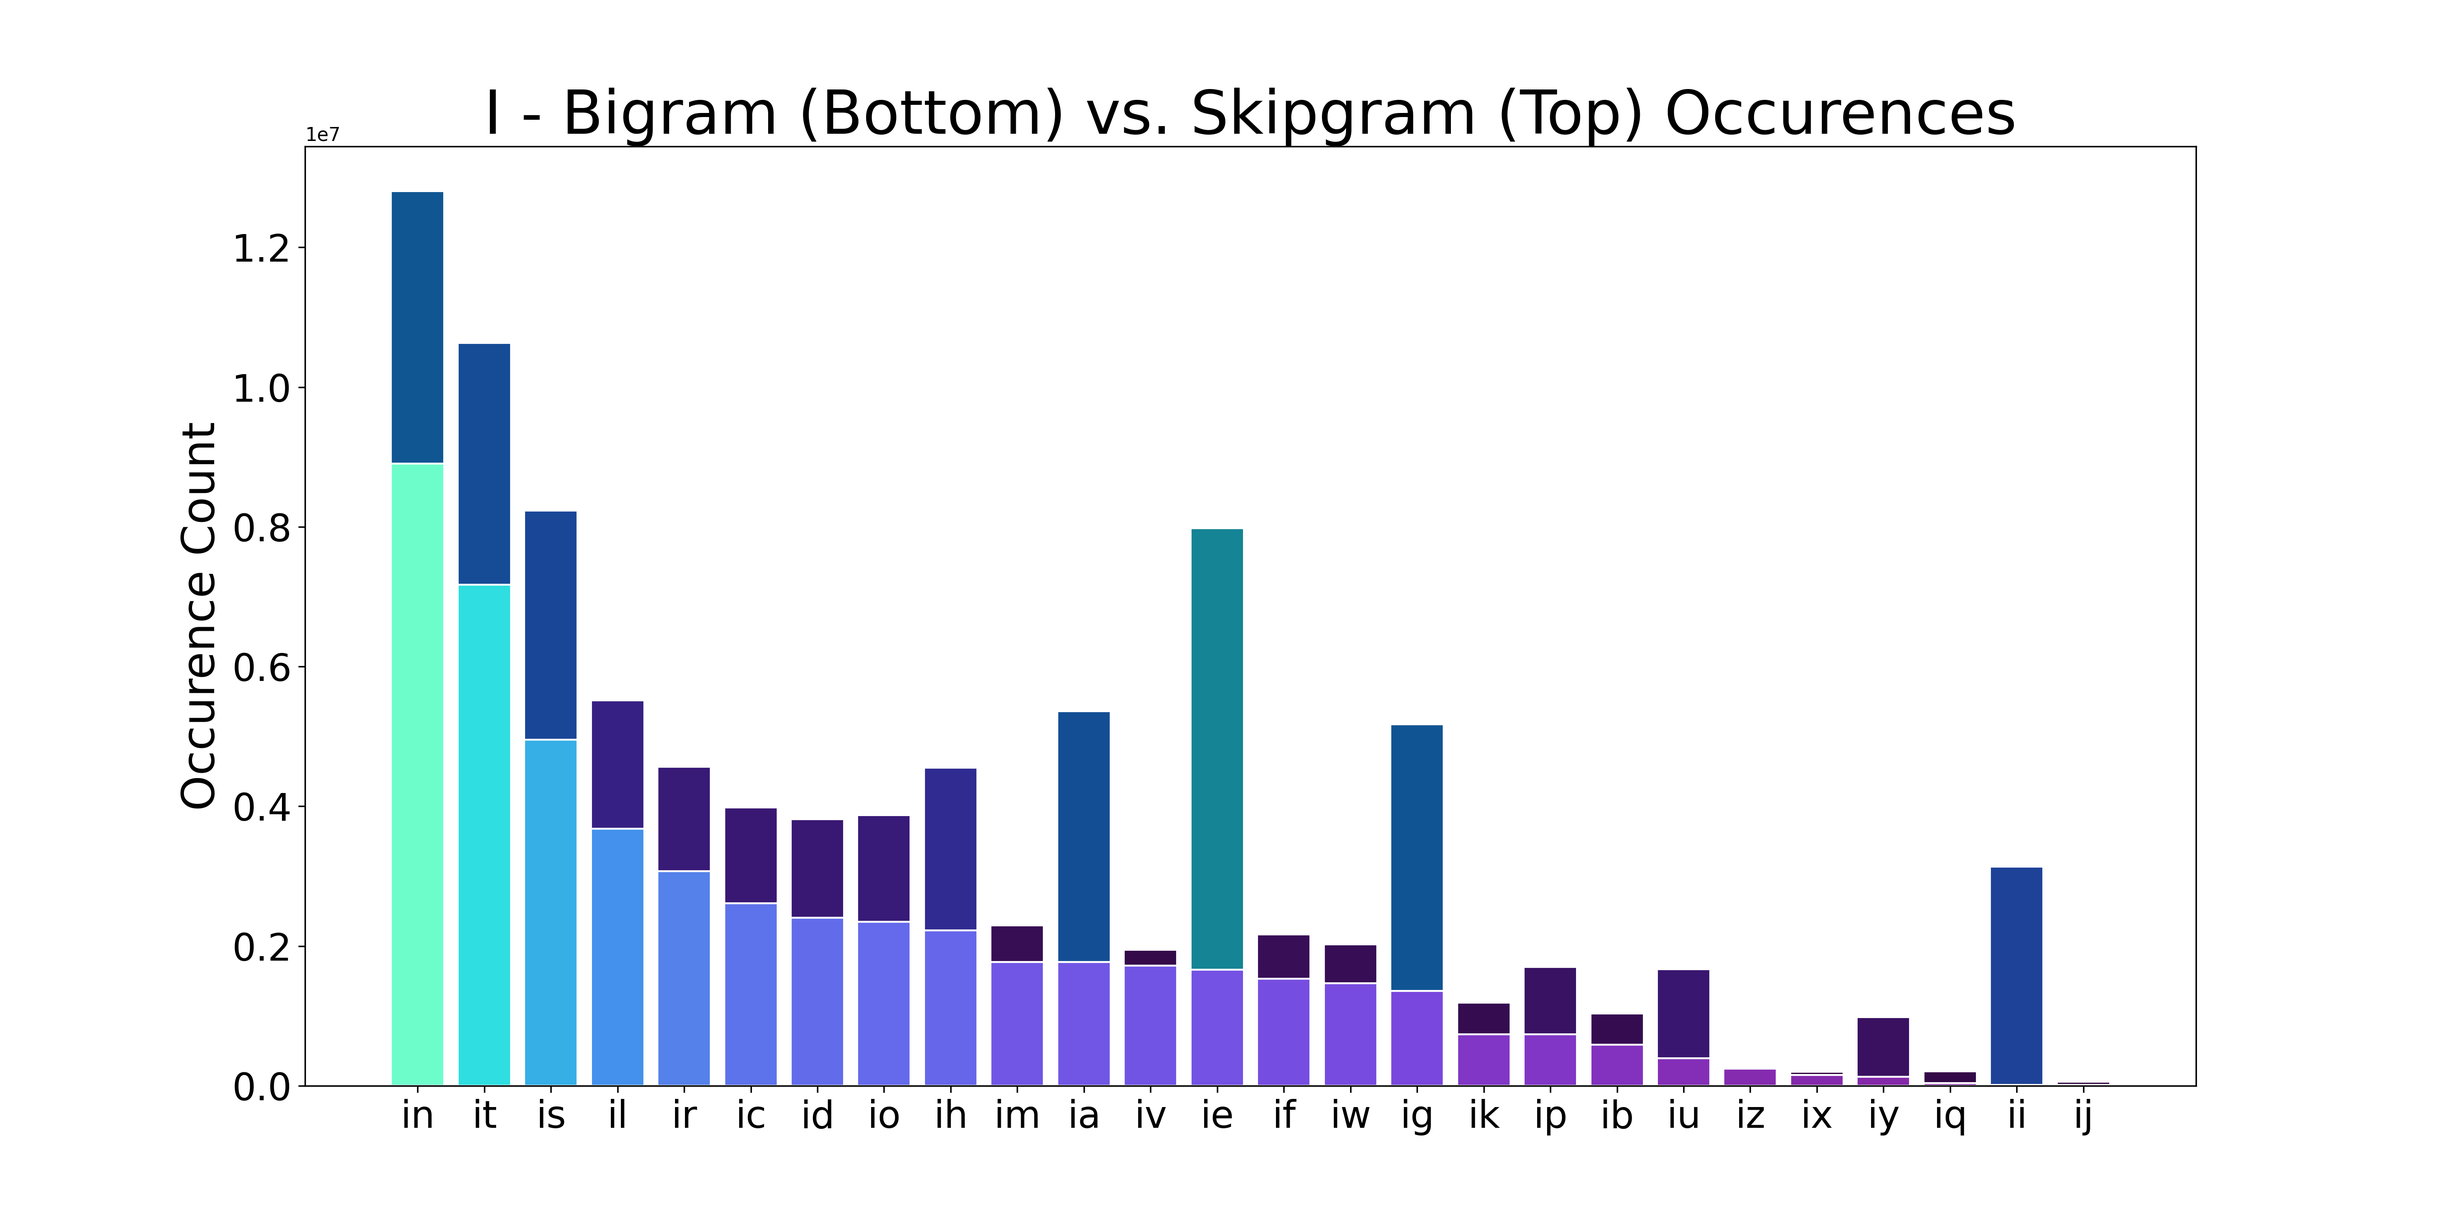
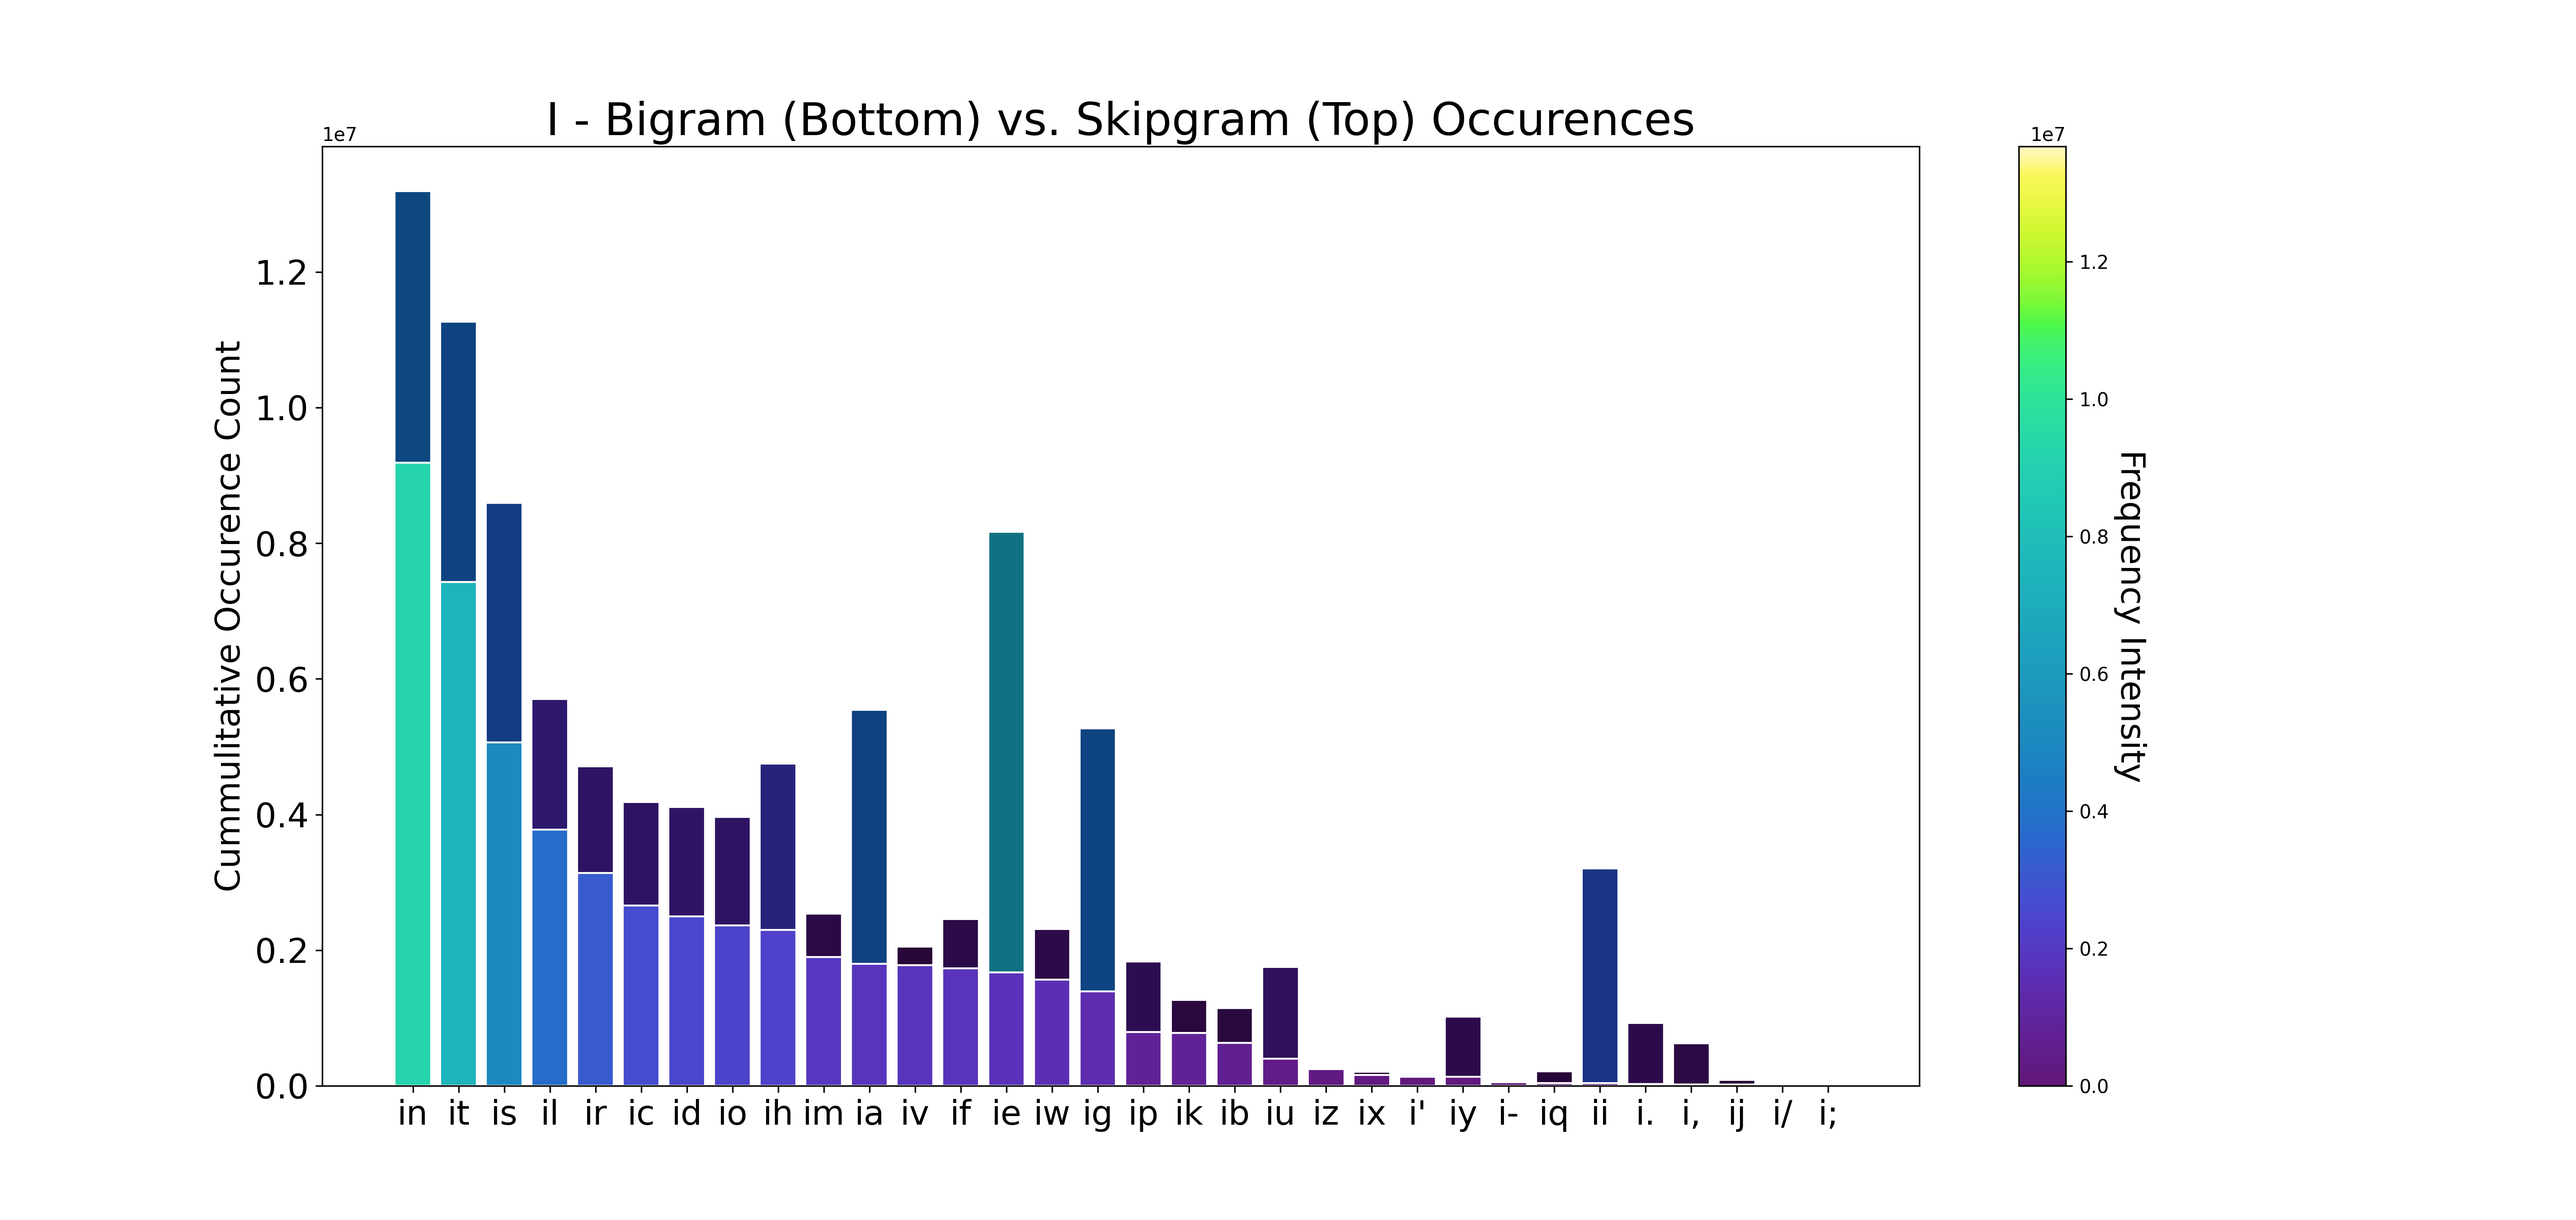
puntuation

diff --git a/Graph_Utils/sfs_sfb_stack_bars.py b/Graph_Utils/sfs_sfb_stack_bars.py
@@ -1,12 +1,14 @@
+from matplotlib.colors import LinearSegmentedColormap
 import matplotlib.pyplot as plt
 from collections import defaultdict
 from conversion import merge, rgb_to_hex, okhsl_to_srgb, oklab_to_linear_srgb, linear_srgb_to_oklab, srgb_to_okhsl
 from math import log10
 
-high_col = srgb_to_okhsl(252, 231, 44)
+high_h, high_s, high_l = srgb_to_okhsl(252, 231, 44)
+high_col = (high_h, high_s, high_l*0.97)
 low_col = srgb_to_okhsl(67, 13, 85)
 
-chars = "etaoinsrhldcumfgpywbvkxjzq"
+chars = "etaoinsrhldcumfgpywbvkxjzq;'-,./"
 
 # get bigram freqs
 bigram_freqs = defaultdict(int)
@@ -14,10 +16,13 @@ bigram_freqs = defaultdict(int)
 with open('bigrams.txt') as f:
     for l in f:
         bigram, freq = l.split('\t')
+        bigram = bigram.lower()
 
-        if bigram.isalpha():
+        if all(c in chars for c in bigram):
             bigram_freqs[bigram] += int(freq)
             bigram_freqs[bigram[1]+bigram[0]] += int(freq)
+
+print(bigram_freqs['-e'])
 
 # get skipgram freqs
 skipgram_freqs = defaultdict(int)
@@ -25,12 +30,13 @@ skipgram_freqs = defaultdict(int)
 with open('1-skip.txt') as f:
     for l in f:
         skipgram, freq = l.split('\t')
+        skipgram = skipgram.lower()
 
-        if skipgram.isalpha():
+        if all(c in chars for c in skipgram):
             skipgram_freqs[skipgram] += int(freq)
             skipgram_freqs[skipgram[1]+skipgram[0]] += int(freq)
 
-high_f = max(*skipgram_freqs.values(), *bigram_freqs.values())
+high_f = max(*skipgram_freqs.values(), *bigram_freqs.values())+10000
 high_scale = max(bigram_freqs[c1+c2]+skipgram_freqs[c1+c2] for c1 in chars for c2 in chars)*1
 
 def get_col(freq, offset=0):
@@ -38,7 +44,10 @@ def get_col(freq, offset=0):
 
     h, s, l = merge(low_col, high_col, t)
 
-    return rgb_to_hex(*okhsl_to_srgb(h, s, min(l+offset, 0.95)))
+    return rgb_to_hex(*okhsl_to_srgb(h, s, min(l+offset, 1)))
+
+bigram_cmap = LinearSegmentedColormap.from_list("custom", [get_col(v, 0.09) for v in range(0, high_f, 20000)])
+# skipgram_cmap = LinearSegmentedColormap.from_list("custom",  [get_col(v, -0.05) for v in range(0, high_f, 20000)])
 
 # Chart
 for target in chars:
@@ -47,10 +56,10 @@ for target in chars:
     indices = sorted(range(len(labels)), key=lambda i: -(bigram_freqs[labels[i]])) # skipgram_freqs[labels[i]]+
     labels = [labels[i] for i in indices]
 
-    bigram_colors = [get_col(bigram_freqs[l], 0.2) for l in labels]
-    skipgram_colors = [get_col(skipgram_freqs[l], -0.05) for l in labels]
+    bigram_colors = [get_col(bigram_freqs[l], 0.09) for l in labels]
+    skipgram_colors = [get_col(skipgram_freqs[l], -0.09) for l in labels]
 
-    fig, ax = plt.subplots(figsize=(18, 9))
+    fig, ax = plt.subplots(figsize=(19, 9))
     # ax.set_ylim(0, high_scale) # 10**int(log10(high_scale)+0.5)
 
     # Plot each bar type
@@ -59,11 +68,20 @@ for target in chars:
     bigram_bar = ax.bar(labels, bigram_vals, label='bigram',  color=bigram_colors, edgecolor='white')
     skipgram_bar = ax.bar(labels, skipgram_vals, label='skipgram', bottom=bigram_vals, color=skipgram_colors, edgecolor='white')
 
-    plt.ylabel('Occurence Count', fontsize=24)
+    plt.ylabel('Cummulitative Occurence Count', fontsize=18)
     # plt.xlabel('Skipgram', fontsize=24)
-    plt.title(f"{target.upper()} - Bigram (Bottom) vs. Skipgram (Top) Occurences", fontsize=32)
-    plt.xticks(fontsize=20)
-    plt.yticks(fontsize=20)
+    plt.title(f"{target.upper()} - Bigram (Bottom) vs. Skipgram (Top) Occurences", fontsize=24)
+    plt.xticks(fontsize=18)
+    plt.yticks(fontsize=18)
+
+    # Gradient legend explanation
+    bigram_sm = plt.cm.ScalarMappable(cmap=bigram_cmap, norm=plt.Normalize(vmin=0, vmax=high_f))
+    bigram_cbar = plt.colorbar(bigram_sm)
+    bigram_cbar.ax.set_ylabel('Frequency Intensity', fontsize=18, rotation=270, labelpad=20)
+
+    #skipgram_sm = plt.cm.ScalarMappable(cmap=skipgram_cmap, norm=plt.Normalize(vmin=0, vmax=high_f))
+    #skipgram_cbar = plt.colorbar(skipgram_sm)
+    # skipgram_cbar.ax.set_ylabel('Skipgram Frequency Intensity', fontsize=16)
 
     
     plt.savefig(f'Graph_Utils/out/{target.upper()}_Skipgram_Bars.png', format='png', dpi=300)
